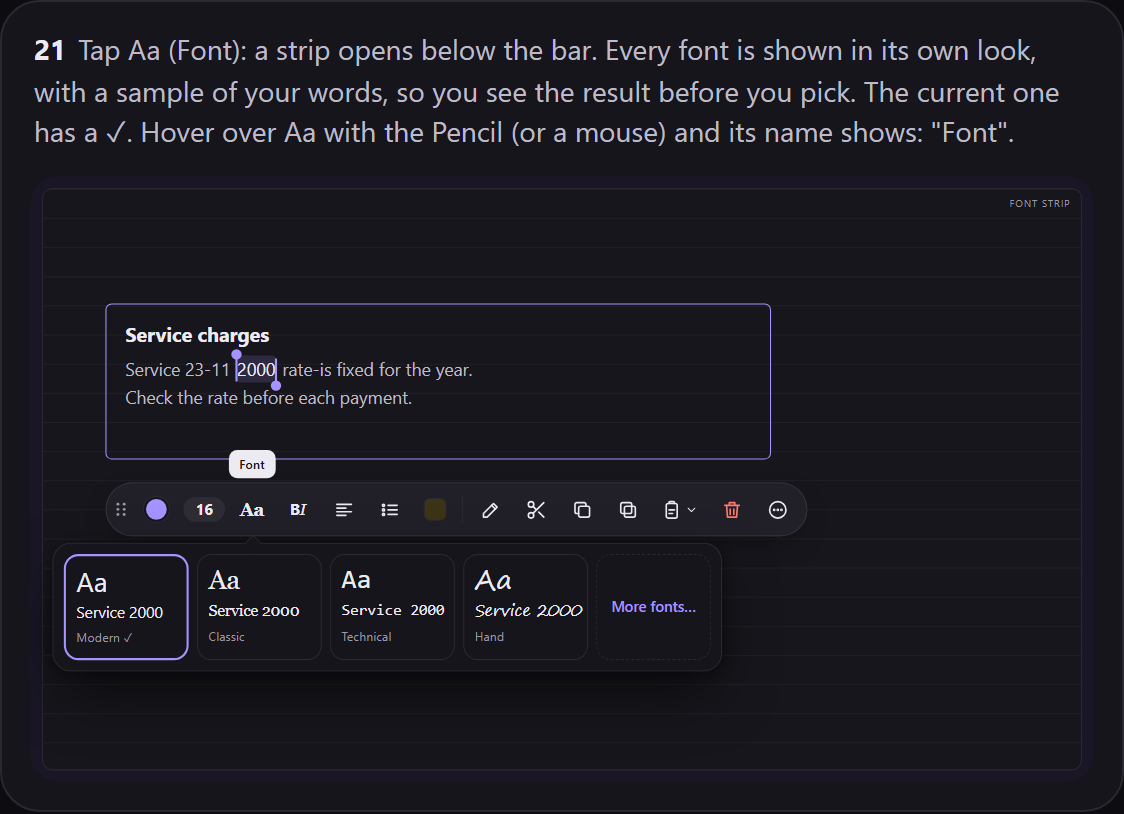
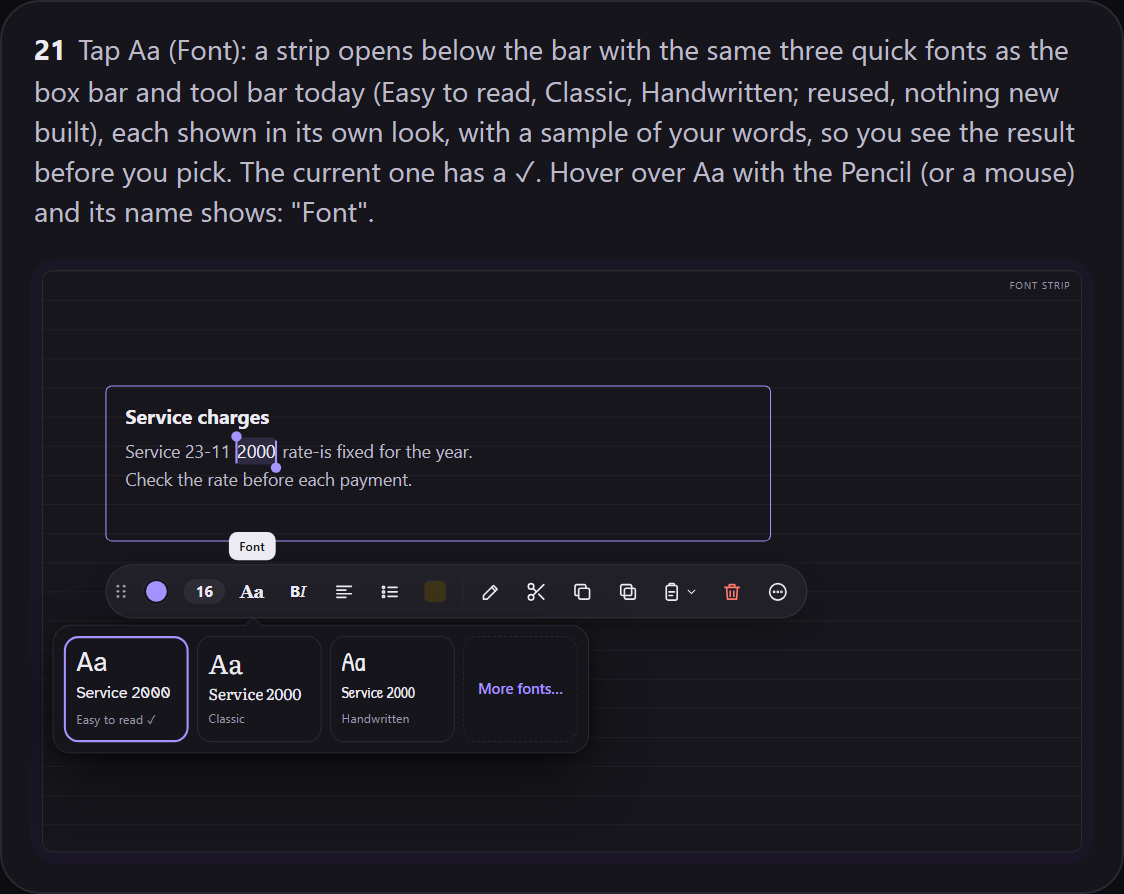
Selection bar spec: owner's 21 Nov answers (place order, Link under ⋯, hover names, font and size strips, Customise bar…), plain-words summary; picture 21 uses the three existing fonts

diff --git a/docs/mockups/smart-bar/index.html b/docs/mockups/smart-bar/index.html
@@ -142,6 +142,7 @@ section.notes li{margin:7px 0}
 .legend{display:flex;flex-wrap:wrap;gap:8px;margin:0 0 16px}
 .legend span{background:var(--surface);border:1px solid var(--line);border-radius:14px;padding:6px 12px;font-size:13px;color:var(--ink-soft)}
 </style>
+<link rel="stylesheet" href="https://fonts.googleapis.com/css2?family=Atkinson+Hyperlegible&family=Literata&family=Patrick+Hand&display=swap">
 </head>
 <body>
 <header>
@@ -354,11 +355,11 @@ F.push(frame('⋯ › Customise bar…: the same customiser as the tool bar. Pre
  <div style="font-size:12px;color:var(--muted);margin:8px 0 4px">Preview</div><div style="position:relative;height:62px">${bar(S.words,{css:'left:0;top:2px'})}</div>
  <div style="display:flex;gap:28px;margin-top:6px"><div style="flex:1"><div style="font-size:12px;color:var(--muted)">On the bar</div>${crow('Paste ▾','−')}${crow('Bold and italic','−')}${crow('Colour','−')}${crow('Cut','−')}${crow('Delete','−')}</div>
  <div style="flex:1"><div style="font-size:12px;color:var(--muted)">Under ⋯</div>${crow('Link','+')}${crow('Font…','+')}${crow('Make card','+')}${crow('Add to Summary','+')}<div style="margin-top:14px;color:var(--accent);font-size:14px;font-weight:600">Reset to standard</div></div></div></div>`,'Customise bar'));
-const FONTS=[['Modern','system-ui,sans-serif',1],['Classic','Georgia,serif'],['Technical','ui-monospace,Consolas,monospace'],['Hand',"'Segoe Print','Bradley Hand',cursive"]];
+const FONTS=[['Easy to read',"'Atkinson Hyperlegible',sans-serif",1],['Classic',"Literata,serif"],['Handwritten',"'Patrick Hand',cursive"]];
 const fontStrip='<div class="pop" style="left:0;top:calc(100% + 10px);gap:8px;padding:10px">'+FONTS.map(f=>`<div style="width:120px;padding:10px;border-radius:14px;border:${f[2]?'2px solid var(--accent)':'1px solid var(--line)'};text-align:left"><div style="font-family:${f[1]};font-size:26px;line-height:1.1">Aa</div><div style="font-family:${f[1]};font-size:15px;margin-top:4px">Service 2000</div><div style="font-size:12px;color:var(--muted);margin-top:6px">${f[0]}${f[2]?' ✓':''}</div></div>`).join('')+'<div style="width:110px;display:grid;place-items:center;border-radius:14px;border:1px dashed var(--line);color:var(--accent);font-weight:600;font-size:14px">More fonts…</div></div>';
 const sizeStrip='<div class="pop" style="left:0;top:calc(100% + 10px);align-items:center;gap:16px;padding:12px 18px"><span style="font-size:13px;color:var(--muted)">Aa</span><div style="width:260px;height:6px;border-radius:3px;background:var(--well);position:relative"><div style="width:38%;height:6px;border-radius:3px;background:var(--accent)"></div><i style="position:absolute;left:38%;top:-9px;width:24px;height:24px;border-radius:50%;background:#fff;box-shadow:0 1px 4px rgba(0,0,0,.3);transform:translateX(-50%)"></i></div><span style="font-size:28px">Aa</span><span style="display:inline-grid;place-items:center;width:44px;height:44px;border-radius:12px;background:var(--well);font-size:20px">−</span><b style="font-size:20px;min-width:30px;text-align:center">16</b><span style="display:inline-grid;place-items:center;width:44px;height:44px;border-radius:12px;background:var(--well);font-size:20px">+</span><span style="font-size:14px;max-width:150px">Service <span style="font-size:16px">2000</span></span></div>';
 function barWith(keys,key,popHtml,css){return bar(keys,{css}).replace(new RegExp('(<button class="b[^"]*" aria-label="'+BTN[key][0]+'">.*?</button>)'),'$1'+popHtml);}
-F.push(frame('Tap Aa (Font): a strip opens below the bar. Every font is shown in its own look, with a sample of your words, so you see the result before you pick. The current one has a ✓. Hover over Aa with the Pencil (or a mouse) and its name shows: "Font".',W,560,tbox(BX,BY,BW,BH,TXT.sel)+barWith(S.box,'aa',fontStrip,`left:${BX}px;top:${BY+BH+22}px`).replace('<b style="font-size:17px;font-family:Georgia,serif">Aa</b></button>','<b style="font-size:17px;font-family:Georgia,serif">Aa</b></button><span class="tip">Font</span>'),'Font strip'));
+F.push(frame('Tap Aa (Font): a strip opens below the bar with the same three quick fonts as the box bar and tool bar today (Easy to read, Classic, Handwritten; reused, nothing new built), each shown in its own look, with a sample of your words, so you see the result before you pick. The current one has a ✓. Hover over Aa with the Pencil (or a mouse) and its name shows: "Font".',W,560,tbox(BX,BY,BW,BH,TXT.sel)+barWith(S.box,'aa',fontStrip,`left:${BX}px;top:${BY+BH+22}px`).replace('<b style="font-size:17px;font-family:Georgia,serif">Aa</b></button>','<b style="font-size:17px;font-family:Georgia,serif">Aa</b></button><span class="tip">Font</span>'),'Font strip'));
 F.push(frame('Tap Size: a strip opens below the bar with the slider, − and +, and the number. The small and big Aa show the range; "Service 2000" shows your words at the size picked, live. Hover shows the name: "Text size".',W,460,tbox(BX,BY,BW,BH,TXT.sel)+barWith(S.box,'size',sizeStrip,`left:${BX}px;top:${BY+BH+22}px`),'Size strip'));
 document.getElementById('frames').innerHTML=F.join('');
 

diff --git a/docs/features/selection-bar.md b/docs/features/selection-bar.md
@@ -2,7 +2,19 @@
 
 Security rules: [rules/security.md](../../rules/security.md). Check them before building.
 
-**Draft, waiting for the owner's yes (20 Nov 2026).** The "why" lens was written by Fable from the owner's recorded decisions (docs/design/owner-decisions.md "One smart selection bar", "Selected box: one bar like Goodnotes", "Paste and the Pencil buttons"; fable-brief-smart-select.md sections 3 and 8 to 12; the Goodnotes check in the phase page). The "how" and "whether" lenses run before Part B3. **No part after B2 is built before the owner has approved the pictures of B2.** Plan: [../plans/phases/phase-2-finish.md](../plans/phases/phase-2-finish.md), parts B1 to B9.
+**Pictures approved by the owner on 21 Nov 2026 (check C3, docs/mockups/smart-bar/, pictures 1 to 22). This text waits for the owner's confirm.** Earlier: draft of 20 Nov. The "why" lens was written by Fable from the owner's recorded decisions (docs/design/owner-decisions.md "One smart selection bar", "Selected box: one bar like Goodnotes", "Paste and the Pencil buttons"; fable-brief-smart-select.md sections 3 and 8 to 12; the Goodnotes check in the phase page). The "how" and "whether" lenses run before Part B3. **No part after B2 is built before the owner has approved the pictures of B2.** Plan: [../plans/phases/phase-2-finish.md](../plans/phases/phase-2-finish.md), parts B1 to B9.
+
+## Read this first (plain words, for the owner's confirm)
+
+- One bar appears whenever something is selected: words, a box, a drawing, a picture, or a mix. It replaces today's three bars. Nothing they can do is lost.
+- When you select words, Cut, Copy and Delete are added **at the end**, so nothing moves under your Pencil. Link is under ⋯.
+- **Where it goes:** the first free place in this order: (1) below the selection, (2) above it, (3) upright on its right, (4) upright on its left, (5) if there is no room anywhere, just under the top tool bar, over the box but never over the words you selected. You can drag it anywhere and pin it.
+- **Names on hover:** hover with the Pencil or a mouse and a button's name shows. Holding with a finger shows nothing for now.
+- **Aa (Font)** opens a strip with the same three fonts the box bar has today (Easy to read, Classic, Handwritten) and More fonts…, each shown in its own look. **Size** opens the slider, − and + strip with a live sample.
+- **A drawing:** Colour and Thickness are on the bar.
+- **The small ⋯ tab under a box is removed.** Its menu is the bar's ⋯.
+- **Every ⋯ ends with Customise bar…**, which opens the **same customiser the tool bar already has** (presets, a set for each kind of selection, live preview, reorder, reset). Nothing new is built for it. The Lasso tool also gets a Customise entry now, with its options added later.
+- With the switch off, everything stays exactly as today.
 
 ## Purpose
 
@@ -19,12 +31,16 @@ As a learner who works with the Apple Pencil, I want one bar that shows the righ
 - **One bar.** There is one bar. Its look is the approved one bar of 18 Nov (docs/mockups/box-bar/); each button opens a small strip right under it.
 - **Follows the selection.** It follows what is selected (Auto, on by default): the cursor in text, words selected, a box, a drawing, a picture, a mix.
 - **Nothing dropped.** Nothing is dropped: every button of the three old bars is on the bar or under ⋯.
-- **Calm.** When words get selected, the selection buttons (Cut, Copy, Delete, Link) are added at the end; the bar keeps its place and shape.
+- **Calm.** When words get selected, Cut, Copy and Delete are added at the end; the bar keeps its place and shape (owner, 21 Nov: A). Link is under ⋯ (owner, 21 Nov).
 - **Paste on the bar.** Paste ▾ is on the bar: a tap pastes and keeps the look; ▾ offers Plain text and More.
+- **Where it goes (owner, 21 Nov; pictures 15 to 19).** The first place with room wins: (1) below the selection; (2) above it; (3) upright on its right; (4) upright on its left; (5) no room anywhere: just under the top tool bar, over the box but never over the selected words. It is never cut off by the page or the screen.
 - **Stays where I put it.** The bar can be moved, pinned and docked on any of the four sides; a pinned or docked bar stays on every page and after the app is closed.
-- **Two presets.** Two presets, Edit and Study; the owner chooses and orders the buttons in Settings › Tool bar › Selection bar.
+- **Two presets, one customiser.** Two presets, Edit and Study. Every ⋯ menu ends with **Customise bar…** (owner, 21 Nov; picture 20), which opens the tool bar's existing customiser (reused, not rebuilt): presets, a button set for each kind of selection, a live preview, reorder, on the bar or under ⋯, reset. The same place as Settings › Tool bar › Selection bar.
+- **Font and size strips (owner, 18 and 21 Nov; pictures 21 and 22).** Aa opens a strip with the three quick fonts the box bar already has (Easy to read, Classic, Handwritten) and More fonts…, each drawn in its own look with a sample of the words; the current one has a ✓. Size opens the strip of 18 Nov (slider, −, number, +) with a live sample.
+- **Drawing and box.** For a drawing, Colour and Thickness are on the bar (owner, 21 Nov). The small ⋯ tab under a box is removed; its menu is the bar's ⋯ (owner, 21 Nov).
+- **Lasso tool.** Its menu gets a Customise entry now; its options come later (owner, 21 Nov).
 - **Phone.** On a phone: the same presets, fewer buttons, the rest under ⋯.
-- **Names, and one red button.** A held button shows its name. Delete is the only red button.
+- **Names, and one red button.** Hovering over a button (Pencil hover or a mouse) shows its name; a held finger shows nothing for now (owner, 21 Nov). Delete is the only red button.
 
 **Can never happen**
 
@@ -43,7 +59,7 @@ As a learner who works with the Apple Pencil, I want one bar that shows the righ
 - The AI button stays hidden until the owner approves the AI cost.
 - With the switch off, today's three bars are exactly as they are.
 
-**Order as drawn (owner, 20 Nov):** Edit = Delete, Paste ▾, Cut, Copy, B/I, Colour, Size, Highlight, ⋯. Study = Highlight, Colour, Make card, B/I, Copy, ⋯ (owner, 20 Nov, later: highlighting matters most, Make card yes; Add to summary and Revise mark sit under ⋯, nothing dropped).
+**Order (owner, 21 Nov, C3):** the buttons already shown stay put and new ones join at the end (choice A). Earlier order as drawn (owner, 20 Nov): Edit = Delete, Paste ▾, Cut, Copy, B/I, Colour, Size, Highlight, ⋯. Study = Highlight, Colour, Make card, B/I, Copy, ⋯ (owner, 20 Nov, later: highlighting matters most, Make card yes; Add to summary and Revise mark sit under ⋯, nothing dropped).
 
 ## Scenarios
 
@@ -60,6 +76,7 @@ Feature: One bar for every selection
     Given the bar is showing for the cursor in a text box
     When I select the word "2000"
     Then Cut, Copy and Delete are added at the end of the bar
+    And Link is under ⋯
     And the bar has not moved or changed its shape
 
   Scenario: S3 A drawing gets drawing buttons
@@ -79,12 +96,39 @@ Feature: One bar for every selection
     When I select the word "2000"
     Then the bar starts with Highlight, Colour and Make card
 
-  Scenario: S6 No room near the selection
+  Scenario: S6 Below first
+    Given a text box with room below it
+    When I select the word "2000"
+    Then the bar sits below the box
+
+  Scenario: S6b A tall box gets the bar upright at its side
+    Given a text box from the top of the page to the bottom, with room on its right
+    When I select the word "2000"
+    Then the bar stands upright on the right of the box
+    And if there is no room on the right, it stands upright on the left
+
+  Scenario: S6c No room anywhere
     Given a text box that fills the page
     When I select words in it
-    Then the bar sits in free space
+    Then the bar sits just under the top tool bar
     And it does not cover the selected words
     And it is fully on the screen
+
+  Scenario: S8 A button's name on hover
+    Given the bar is showing
+    When I hover the Pencil over Aa
+    Then the name "Font" shows
+
+  Scenario: S9 The font strip shows each font in its own look
+    Given words are selected
+    When I tap Aa
+    Then a strip shows Easy to read, Classic and Handwritten, each in its own look, and More fonts…
+    And the current font has a ✓
+
+  Scenario: S10 Customise bar opens the tool bar's customiser
+    Given the bar's ⋯ is open
+    When I choose Customise bar…
+    Then the customiser opens on the selection bar, with the preset and the kind of selection I am on
 
   Scenario: S7 A pinned bar stays where I put it
     Given I moved the bar to the left side and pinned it
